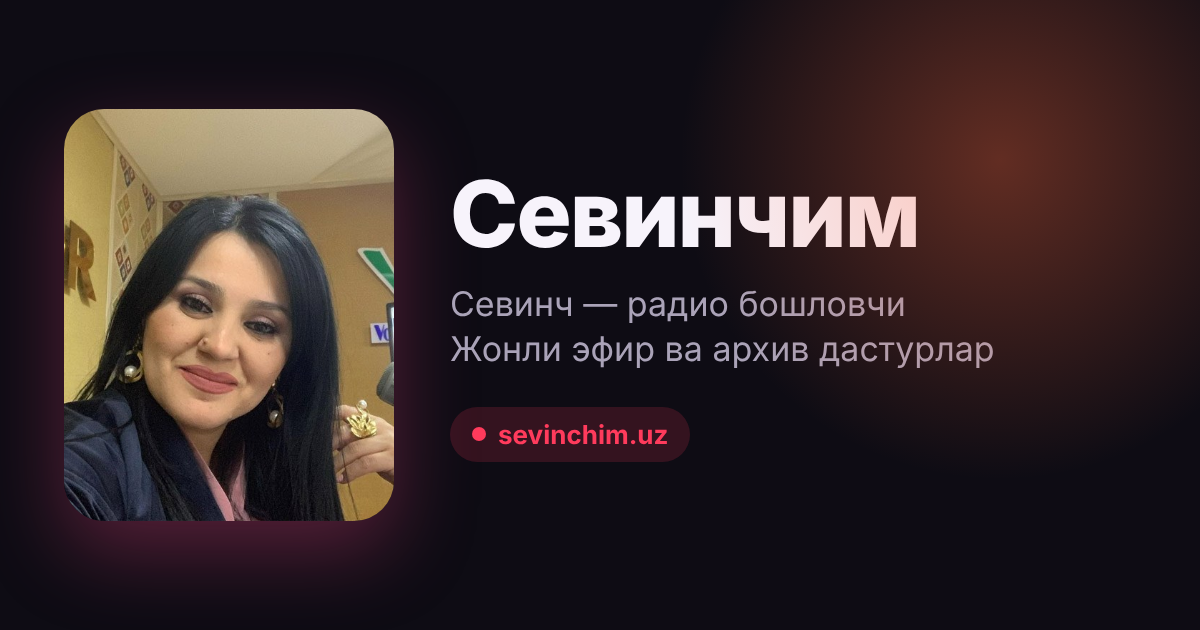
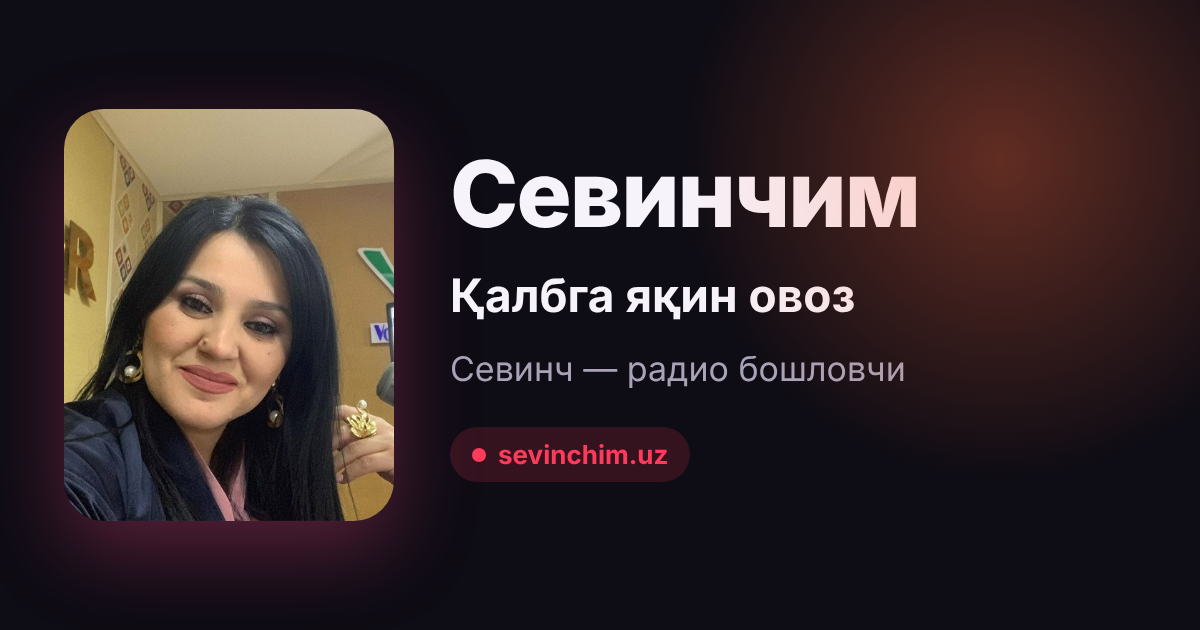
Шиорлар ва ҳақиқий биография
- «Қалбга яқин овоз» — асосий шиор: бош саҳифада исм тагида, сайт
  сарлавҳаси ва тавсифида, OG превью расмида (profile.slogan).
- «Мен ҳақимда»: «Эфир ва ижодни бирлаштирган овоз» сарлавҳаси,
  кириш жумласи ва «Қисқача биография» (бошловчи берган матн);
  «Овоз ортидаги самимият» сурат тагида иқтибос (aboutSlogan).
- Намуна «Радиодаги йўлим» бўлими яширилди (ўйлаб топилган фактлар
  ҳақиқий биография ёнида турмасин); timeline тўлдирилса чиқади.
- Телефонда тугма биринчи экранда қолиши учун: шиор бор бўлса узун
  тавсиф яширилади, баннер баландлиги 40svh билан чекланади.
- 360px дан тор экранлар: логотип ёзуви яширилади, «Жонли эфир»
  бир қаторда, баннер 16:10, частота белгиси ихчам.

Claude-Session: https://claude.ai/code/session_014RJRkkwqyuc1vGm2LABD9J

Changed region(s): [[0.37, 0.4222, 0.8325, 0.7841], [0.37, 0.2413, 0.7708, 0.3921]]

diff --git a/app/haqida/page.tsx b/app/haqida/page.tsx
@@ -11,7 +11,7 @@ export async function generateMetadata(): Promise<Metadata> {
   const { profile } = await getContent();
   return {
     title: "Мен ҳақимда",
-    description: `${profile.name} — ${profile.role.toLowerCase()}. Ижодий йўл, радиодаги фаолият ва муаллифлик дастурлари.`,
+    description: `${profile.name} — ${profile.role.toLowerCase()}. ${profile.bioIntro ?? "Ижодий йўл, радиодаги фаолият ва муаллифлик дастурлари."}`,
     alternates: { canonical: "/haqida" },
   };
 }
@@ -30,10 +30,11 @@ export default async function AboutPage() {
 
   return (
     <>
-      <PageHeader eyebrow="Таржимаи ҳол" title="Мен ҳақимда" />
+      <PageHeader eyebrow="Биография" title={profile.bioTitle || "Мен ҳақимда"} lead={profile.bioIntro} />
 
       <section className="grid gap-8 md:grid-cols-[18rem_1fr] md:gap-12">
-        <div className="relative mx-auto aspect-[4/5] w-full max-w-[18rem] overflow-hidden rounded-[2rem]">
+        <figure className="mx-auto w-full max-w-[18rem]">
+        <div className="relative aspect-[4/5] w-full overflow-hidden rounded-[2rem]">
           <Image
             src={profile.aboutPhoto || profile.photo}
             alt={`${profile.name} эфир пайтида`}
@@ -43,7 +44,14 @@ export default async function AboutPage() {
             style={{ objectPosition: profile.aboutPhotoFocus || "50% 30%" }}
           />
         </div>
+        {profile.aboutSlogan && (
+          <figcaption className="mt-4 text-center font-display text-lg font-semibold text-gradient">
+            «{profile.aboutSlogan}»
+          </figcaption>
+        )}
+        </figure>
         <div className="space-y-4 text-lg leading-relaxed text-ink/90">
+          <h2 className="font-display text-xl font-bold md:text-2xl">Қисқача биография</h2>
           {profile.bio.map((p, i) => <p key={i}>{p}</p>)}
           <ul className="flex flex-wrap gap-2 pt-2" aria-label="Ижтимоий тармоқлар">
             {profile.socials.map((s) => (
@@ -62,6 +70,7 @@ export default async function AboutPage() {
         </div>
       </section>
 
+      {profile.timeline.length > 0 && (
       <section className="mt-14">
         <SectionTitle>Радиодаги йўлим</SectionTitle>
         <ol className="relative ml-3 border-l-2 border-white/10">
@@ -75,6 +84,7 @@ export default async function AboutPage() {
           ))}
         </ol>
       </section>
+      )}
 
       <section className="mt-14">
         <SectionTitle>Муаллифлик дастурларим</SectionTitle>

diff --git a/app/page.tsx b/app/page.tsx
@@ -24,7 +24,11 @@ export default async function HomePage() {
           <h1 className="font-display text-[2.1rem] font-extrabold leading-[1.05] sm:text-5xl lg:text-6xl">
             Салом, мен <span className="text-gradient">{profile.name}</span>
           </h1>
-          <p className="mt-3 max-w-xl text-muted md:mt-4 md:text-lg">{profile.tagline}</p>
+          {profile.slogan && (
+            <p className="mt-3 font-display text-xl font-semibold text-ink/90 md:mt-4 md:text-2xl">{profile.slogan}</p>
+          )}
+          {/* Телефонда шиор бор бўлса тавсиф яширилади: «тинглаш» тугмаси биринчи экранда қолсин */}
+          <p className={`mt-3 max-w-xl text-muted md:block md:text-lg ${profile.slogan ? "hidden" : ""}`}>{profile.tagline}</p>
           <div className="mt-5 flex flex-wrap items-center gap-3 md:mt-7">
             <ListenLiveButton />
             <Link
@@ -37,7 +41,7 @@ export default async function HomePage() {
         </div>
 
         <div className="relative order-1 md:order-2">
-          <div className="relative mx-auto aspect-[4/3] w-full overflow-hidden rounded-[2rem] shadow-2xl shadow-brand/20 md:aspect-[4/5]">
+          <div className="relative mx-auto aspect-[4/3] max-h-[40svh] w-full max-[359px]:aspect-[16/10] overflow-hidden rounded-[2rem] shadow-2xl shadow-brand/20 md:aspect-[4/5] md:max-h-none">
             <Image
               src={profile.photo}
               alt={`${profile.name} — ${profile.role.toLowerCase()}`}
@@ -52,7 +56,7 @@ export default async function HomePage() {
           <div className="absolute bottom-3 left-3 md:-bottom-4 md:left-auto md:right-6 md:w-[min(20rem,90%)]">
             <div className="rounded-2xl border border-white/10 bg-surface-2/85 px-3 py-2 text-left shadow-xl backdrop-blur md:px-4 md:py-3 md:text-center">
               <p className="font-display text-lg font-extrabold md:text-2xl">{profile.frequency}</p>
-              <p className="text-xs text-muted">«{profile.station}» радиосида тингланг</p>
+              <p className="text-xs text-muted max-[359px]:hidden">«{profile.station}» радиосида тингланг</p>
             </div>
           </div>
         </div>

diff --git a/components/Navigation.tsx b/components/Navigation.tsx
@@ -22,14 +22,14 @@ export function SiteHeader({ name }: { name: string }) {
   const { hasStream, liveFallback } = useSiteData();
   const liveOn = track?.kind === "live" && status === "playing";
   const liveBtn =
-    "ml-auto inline-flex min-h-11 items-center gap-2 rounded-full bg-live/15 px-4 text-sm font-semibold text-live transition hover:bg-live/25 md:ml-0";
+    "ml-auto inline-flex min-h-11 items-center gap-2 whitespace-nowrap rounded-full bg-live/15 px-4 text-sm font-semibold text-live transition hover:bg-live/25 md:ml-0";
 
   return (
     <header className="sticky top-0 z-30 border-b border-white/5 bg-bg/80 backdrop-blur-xl">
       <div className="mx-auto flex h-16 max-w-6xl items-center gap-6 px-4">
         <Link href="/" className="flex items-center gap-2.5 font-display text-lg font-bold" aria-label="Севинчим — бош саҳифа">
           <img src="/icons/icon.svg" alt="" width={36} height={36} className="rounded-xl" />
-          <span>Севинчим</span>
+          <span className="max-[359px]:sr-only">Севинчим</span>
         </Link>
 
         <nav className="ml-auto hidden items-center gap-1 md:flex" aria-label="Асосий меню">

diff --git a/app/layout.tsx b/app/layout.tsx
@@ -22,8 +22,10 @@ const unbounded = Unbounded({
 
 export async function generateMetadata(): Promise<Metadata> {
   const { profile } = await getContent();
-  const title = `${profile.name} — ${profile.role.toLowerCase()} | ${SITE_NAME}`;
-  const description = `${profile.name}нинг расмий сайти: ${profile.station} жонли эфири, архив дастурлар, эфир жадвали ва янгиликлар.`;
+  const title = profile.slogan
+    ? `${profile.name} — ${profile.slogan.toLowerCase()} | ${SITE_NAME}`
+    : `${profile.name} — ${profile.role.toLowerCase()} | ${SITE_NAME}`;
+  const description = `${profile.slogan ? profile.slogan + ". " : ""}${profile.role} ${profile.name}нинг расмий сайти: «${profile.station}» жонли эфири, архив дастурлар, эфир жадвали ва янгиликлар.`;
   return {
     metadataBase: new URL(SITE_URL),
     title: { default: title, template: `%s | ${SITE_NAME}` },

diff --git a/lib/types.ts b/lib/types.ts
@@ -13,6 +13,10 @@ export type StreamQuality = {
 export type Profile = {
   name: string;
   role: string;
+  /** Асосий шиор: бош саҳифада исм тагида, сайт сарлавҳасида */
+  slogan?: string;
+  /** «Мен ҳақимда» саҳифаси шиори */
+  aboutSlogan?: string;
   station: string;
   frequency: string;
   tagline: string;
@@ -21,6 +25,9 @@ export type Profile = {
   aboutPhoto?: string;
   /** Суратнинг фокус нуқтаси (CSS object-position), масалан «72% 40%» */
   aboutPhotoFocus?: string;
+  /** «Мен ҳақимда» саҳифаси сарлавҳаси ва кириш жумласи */
+  bioTitle?: string;
+  bioIntro?: string;
   bio: string[];
   timeline: { year: string; title: string; text: string }[];
   programs: { title: string; slot: string; text: string }[];
